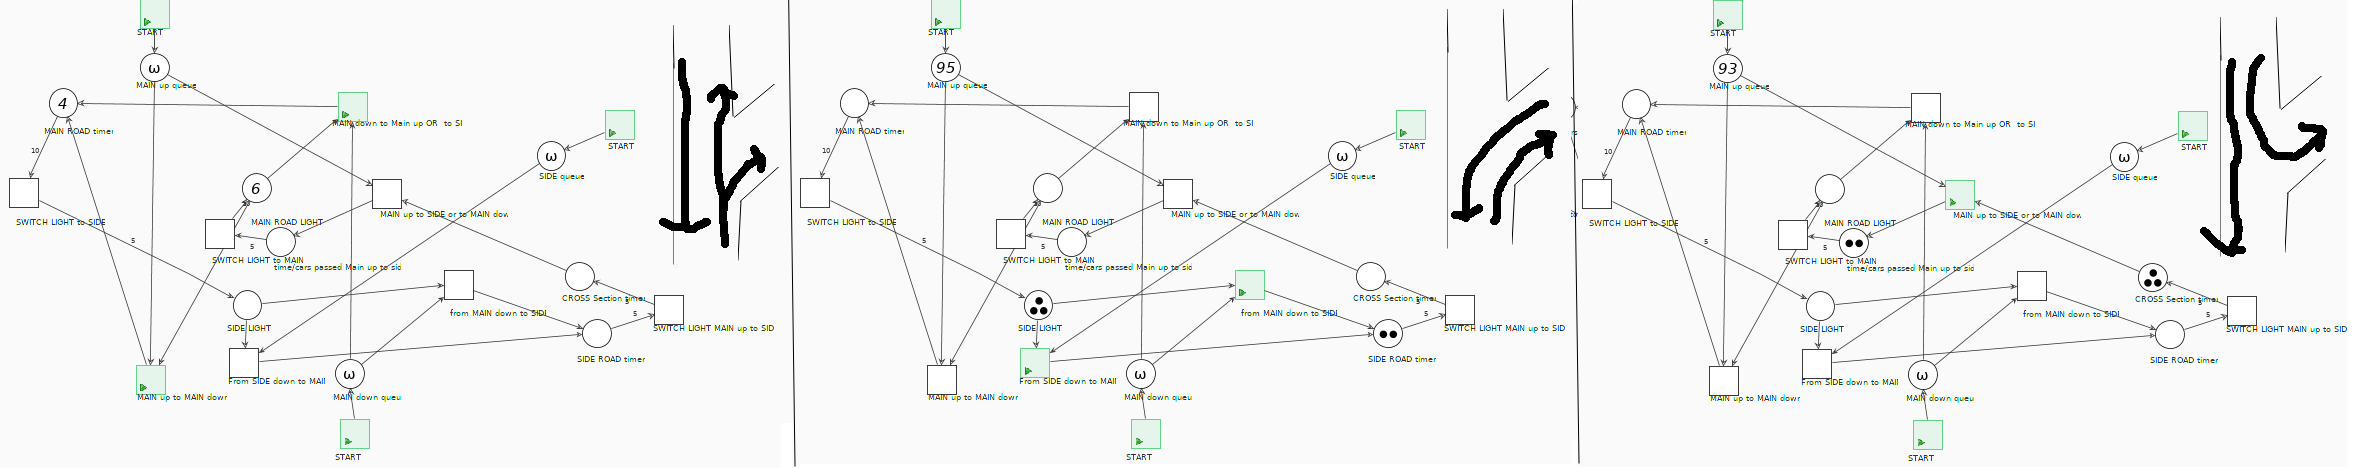
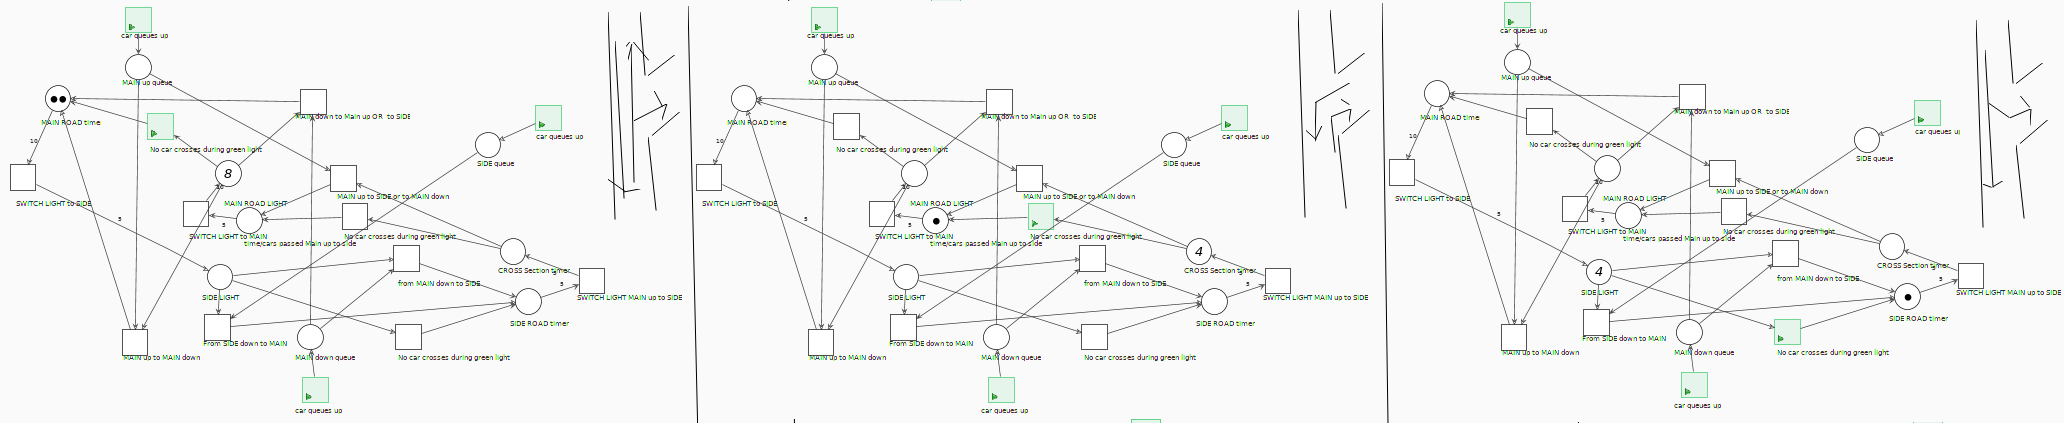
introduced idle time for petrinet

diff --git a/exercise 3/README.md b/exercise 3/README.md
@@ -1,6 +1,6 @@
-- Three states as described in the picture
-- Tokens represent time of activess
-- Initial states are named as "queue" due to no better way to name "time"
-- When a treshold of time passes a lightswitch phase turns on 
-- Light switching goes in a cycle
+- Three states as described in the picture.
+- Tokens represent time or cars - depending on situation. This should become obvious from node names.
+- When a treshold of time (10,10,5) passes then then lights switch. 
+- Light switching goes in a cycle in same order. (main-side-cross)
+- Cars can stop during green light but time will move on resulting in 0-10 / 0-10 / 0-5 cars passing per light switch, (5max for side road greenlight)
 
